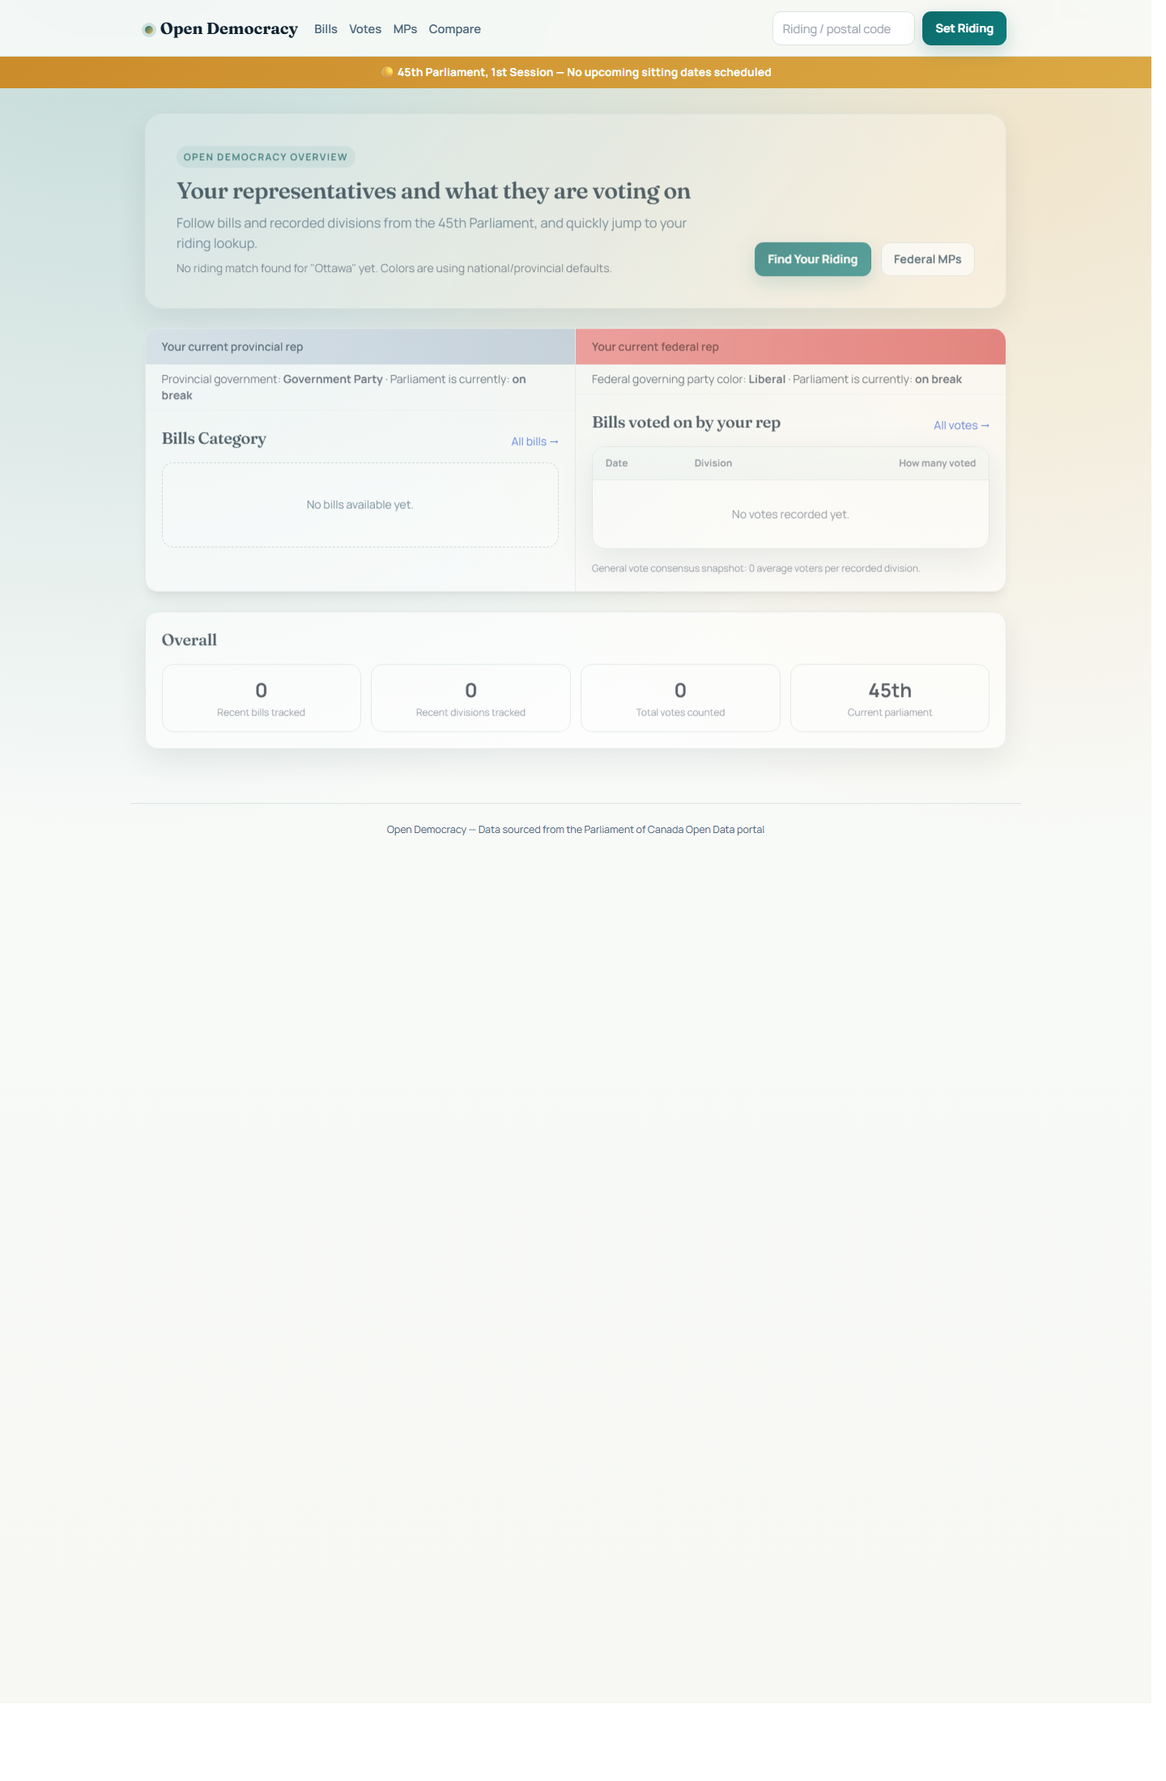
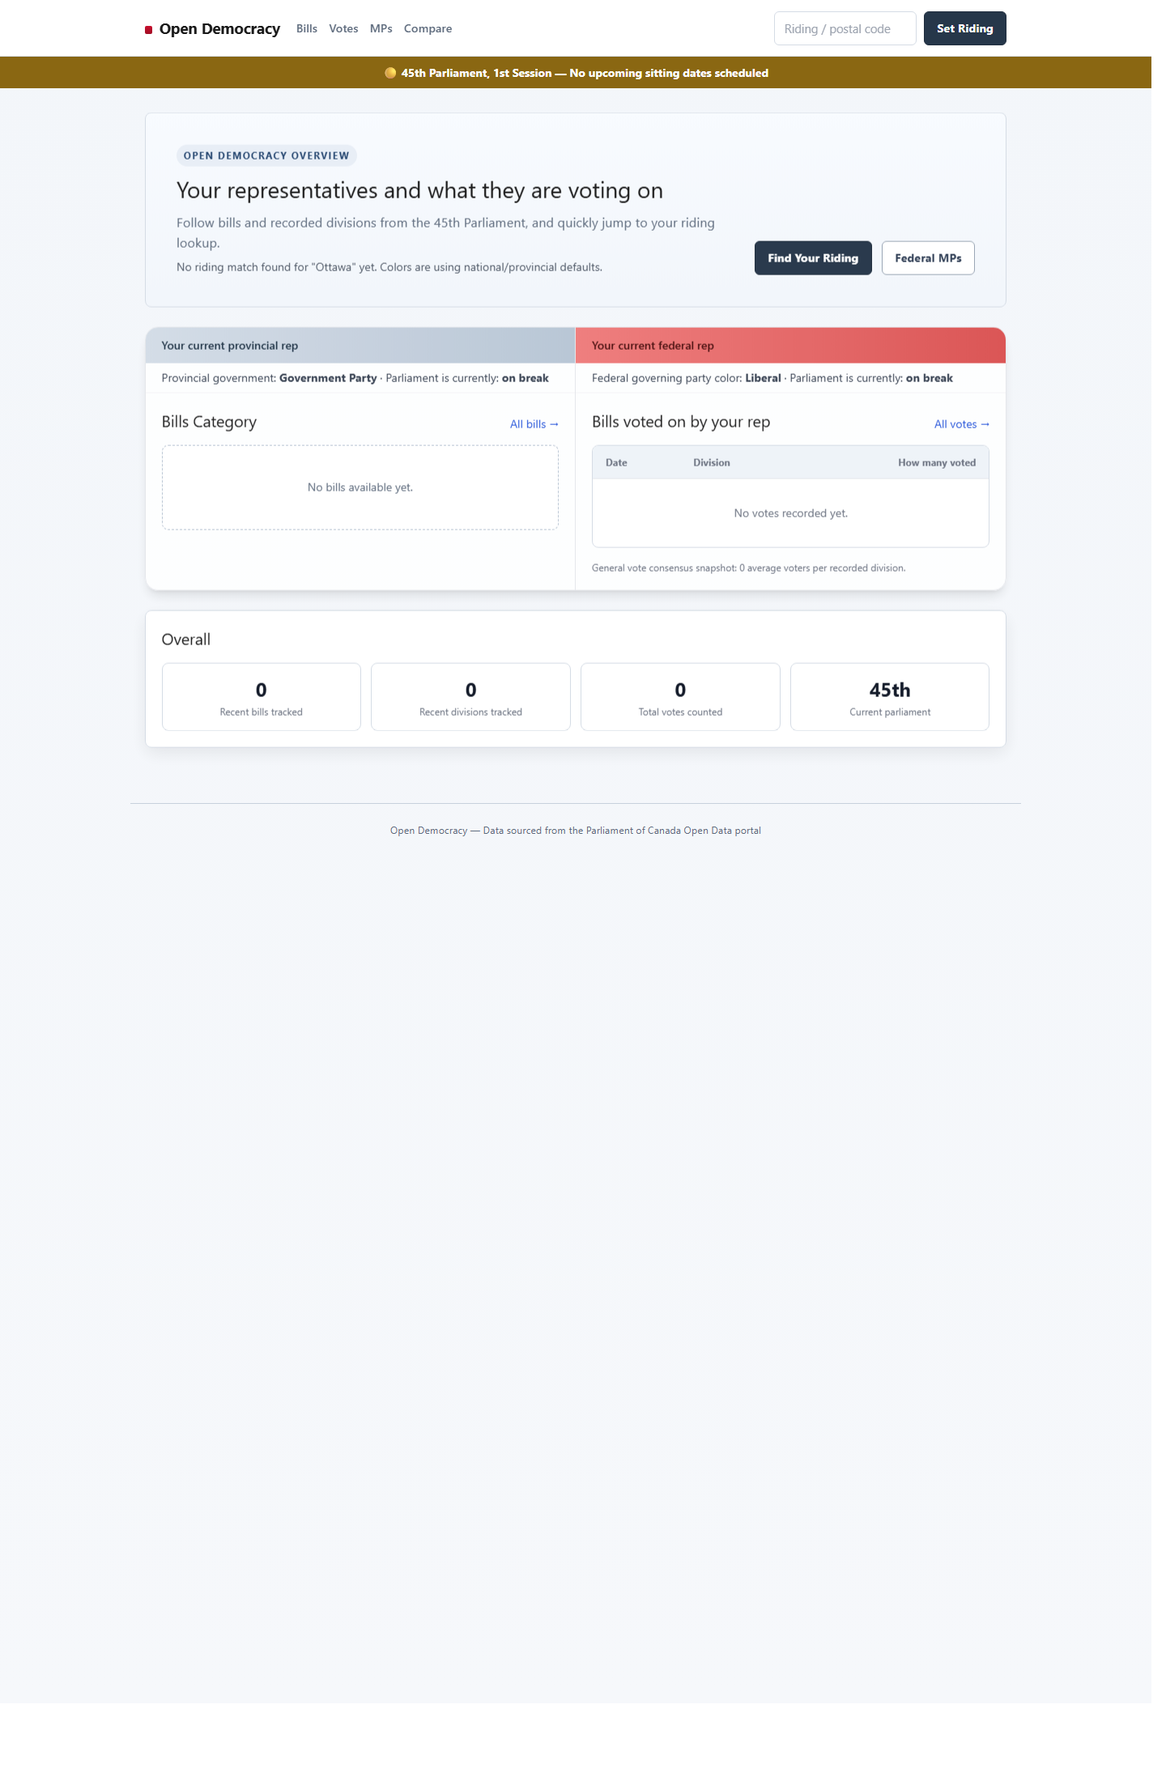
style(ui): adopt Aurora-inspired government visual system

diff --git a/internal/templates/layout_templ.go b/internal/templates/layout_templ.go
@@ -44,7 +44,7 @@ func Layout(title string, ps store.ParliamentStatus) templ.Component {
 		if templ_7745c5c3_Err != nil {
 			return templ_7745c5c3_Err
 		}
-		templ_7745c5c3_Err = templruntime.WriteString(templ_7745c5c3_Buffer, 2, " — Open Democracy</title><link rel=\"preconnect\" href=\"https://fonts.googleapis.com\"><link rel=\"preconnect\" href=\"https://fonts.gstatic.com\" crossorigin=\"\"><link href=\"https://fonts.googleapis.com/css2?family=Fraunces:opsz,wght@9..144,600;9..144,700&family=Manrope:wght@400;500;600;700&display=swap\" rel=\"stylesheet\"><script src=\"https://cdn.tailwindcss.com\"></script><style>\n\t\t\t\t:root {\n\t\t\t\t\t--ink-900: #0f2230;\n\t\t\t\t\t--ink-700: #1f3b52;\n\t\t\t\t\t--ink-500: #456277;\n\t\t\t\t\t--paper: #f8faf8;\n\t\t\t\t\t--paper-strong: #ffffff;\n\t\t\t\t\t--line: #dbe4e1;\n\t\t\t\t\t--accent: #0d6a6a;\n\t\t\t\t\t--accent-strong: #095555;\n\t\t\t\t\t--warm: #f4b860;\n\t\t\t\t\t--shadow: 0 14px 40px rgba(15, 34, 48, 0.12);\n\t\t\t\t}\n\n\t\t\t\thtml,\n\t\t\t\tbody {\n\t\t\t\t\tmin-height: 100%;\n\t\t\t\t}\n\n\t\t\t\tbody {\n\t\t\t\t\tfont-family: \"Manrope\", \"Segoe UI\", sans-serif;\n\t\t\t\t\tcolor: var(--ink-900);\n\t\t\t\t\tbackground:\n\t\t\t\t\t\tradial-gradient(circle at 10% -5%, rgba(13, 106, 106, 0.2), transparent 45%),\n\t\t\t\t\t\tradial-gradient(circle at 90% 8%, rgba(244, 184, 96, 0.26), transparent 38%),\n\t\t\t\t\t\tlinear-gradient(180deg, #eef4f1 0%, var(--paper) 46%, #f7f8f4 100%);\n\t\t\t\t}\n\n\t\t\t\th1,\n\t\t\t\th2,\n\t\t\t\th3,\n\t\t\t\th4 {\n\t\t\t\t\tfont-family: \"Fraunces\", Georgia, serif;\n\t\t\t\t\tletter-spacing: -0.02em;\n\t\t\t\t}\n\n\t\t\t\ta {\n\t\t\t\t\tcolor: var(--ink-700);\n\t\t\t\t\ttransition: color 160ms ease;\n\t\t\t\t}\n\n\t\t\t\ta:hover {\n\t\t\t\t\tcolor: var(--accent-strong);\n\t\t\t\t}\n\n\t\t\t\t.site-nav {\n\t\t\t\t\tposition: sticky;\n\t\t\t\t\ttop: 0;\n\t\t\t\t\tz-index: 20;\n\t\t\t\t\tbackdrop-filter: blur(10px);\n\t\t\t\t\tbackground: rgba(248, 250, 248, 0.88);\n\t\t\t\t\tborder-bottom: 1px solid rgba(219, 228, 225, 0.92);\n\t\t\t\t}\n\n\t\t\t\t.nav-inner {\n\t\t\t\t\tmax-width: 1100px;\n\t\t\t\t\tdisplay: flex;\n\t\t\t\t\tjustify-content: space-between;\n\t\t\t\t\talign-items: center;\n\t\t\t\t\tgap: 1rem;\n\t\t\t\t\theight: auto;\n\t\t\t\t\tpadding: 0.85rem 1.1rem;\n\t\t\t\t\tmargin: 0 auto;\n\t\t\t\t\tflex-wrap: wrap;\n\t\t\t\t}\n\n\t\t\t\t.nav-brand {\n\t\t\t\t\tfont-family: \"Fraunces\", Georgia, serif;\n\t\t\t\t\tfont-size: 1.25rem;\n\t\t\t\t\tfont-weight: 700;\n\t\t\t\t\tcolor: var(--ink-900);\n\t\t\t\t}\n\n\t\t\t\t.nav-brand::before {\n\t\t\t\t\tcontent: \"\";\n\t\t\t\t\tdisplay: inline-block;\n\t\t\t\t\twidth: 0.65rem;\n\t\t\t\t\theight: 0.65rem;\n\t\t\t\t\tmargin-right: 0.55rem;\n\t\t\t\t\tborder-radius: 50%;\n\t\t\t\t\tbackground: linear-gradient(135deg, var(--accent), var(--warm));\n\t\t\t\t\tbox-shadow: 0 0 0 4px rgba(13, 106, 106, 0.16);\n\t\t\t\t\tvertical-align: middle;\n\t\t\t\t}\n\n\t\t\t\t.nav-links {\n\t\t\t\t\tdisplay: flex;\n\t\t\t\t\tgap: 0.9rem;\n\t\t\t\t\talign-items: center;\n\t\t\t\t\tfont-size: 0.92rem;\n\t\t\t\t\tfont-weight: 600;\n\t\t\t\t\tcolor: var(--ink-500);\n\t\t\t\t\tflex-wrap: wrap;\n\t\t\t\t}\n\n\t\t\t\t.search-form {\n\t\t\t\t\tdisplay: flex;\n\t\t\t\t\talign-items: center;\n\t\t\t\t\tgap: 0.55rem;\n\t\t\t\t\tflex-wrap: wrap;\n\t\t\t\t}\n\n\t\t\t\t.input-field,\n\t\t\t\tselect,\n\t\t\t\tinput[type=\"text\"] {\n\t\t\t\t\tborder: 1px solid var(--line);\n\t\t\t\t\tborder-radius: 10px;\n\t\t\t\t\tpadding: 0.56rem 0.72rem;\n\t\t\t\t\tbackground: var(--paper-strong);\n\t\t\t\t\tfont-size: 0.92rem;\n\t\t\t\t\tcolor: var(--ink-900);\n\t\t\t\t\toutline: none;\n\t\t\t\t\ttransition: border-color 160ms ease, box-shadow 160ms ease;\n\t\t\t\t}\n\n\t\t\t\t.input-field:focus,\n\t\t\t\tselect:focus,\n\t\t\t\tinput[type=\"text\"]:focus {\n\t\t\t\t\tborder-color: var(--accent);\n\t\t\t\t\tbox-shadow: 0 0 0 3px rgba(13, 106, 106, 0.15);\n\t\t\t\t}\n\n\t\t\t\t.btn {\n\t\t\t\t\tdisplay: inline-flex;\n\t\t\t\t\talign-items: center;\n\t\t\t\t\tjustify-content: center;\n\t\t\t\t\tgap: 0.4rem;\n\t\t\t\t\tpadding: 0.58rem 0.96rem;\n\t\t\t\t\tfont-size: 0.9rem;\n\t\t\t\t\tfont-weight: 700;\n\t\t\t\t\tborder-radius: 11px;\n\t\t\t\t\tborder: 1px solid transparent;\n\t\t\t\t\ttransition: transform 120ms ease, box-shadow 160ms ease, background-color 160ms ease;\n\t\t\t\t\tcursor: pointer;\n\t\t\t\t}\n\n\t\t\t\t.btn:hover {\n\t\t\t\t\ttransform: translateY(-1px);\n\t\t\t\t}\n\n\t\t\t\t.btn-primary {\n\t\t\t\t\tbackground: linear-gradient(135deg, var(--accent), #0f7d7d);\n\t\t\t\t\tcolor: #fff;\n\t\t\t\t\tbox-shadow: 0 8px 22px rgba(13, 106, 106, 0.22);\n\t\t\t\t}\n\n\t\t\t\t.btn-primary:hover {\n\t\t\t\t\tbackground: linear-gradient(135deg, #0f7d7d, var(--accent-strong));\n\t\t\t\t\tcolor: #fff;\n\t\t\t\t}\n\n\t\t\t\t.btn-secondary {\n\t\t\t\t\tbackground: #ffffff;\n\t\t\t\t\tborder-color: var(--line);\n\t\t\t\t\tcolor: var(--ink-700);\n\t\t\t\t}\n\n\t\t\t\t.session-banner {\n\t\t\t\t\ttext-align: center;\n\t\t\t\t\tpadding: 0.55rem 1rem;\n\t\t\t\t\tfont-size: 0.86rem;\n\t\t\t\t\tfont-weight: 700;\n\t\t\t\t\tletter-spacing: 0.01em;\n\t\t\t\t\tcolor: #fff;\n\t\t\t\t}\n\n\t\t\t\t.session-banner.in-session {\n\t\t\t\t\tbackground: linear-gradient(135deg, #0f8a5f, #13916b);\n\t\t\t\t}\n\n\t\t\t\t.session-banner.on-break {\n\t\t\t\t\tbackground: linear-gradient(135deg, #cb8c2a, #dba944);\n\t\t\t\t}\n\n\t\t\t\t.site-main {\n\t\t\t\t\tmax-width: 1100px;\n\t\t\t\t\tmargin: 1.8rem auto 0;\n\t\t\t\t\tpadding: 0 1.1rem 2.2rem;\n\t\t\t\t}\n\n\t\t\t\t.site-main > * {\n\t\t\t\t\tanimation: rise-in 420ms ease both;\n\t\t\t\t}\n\n\t\t\t\t.surface-card,\n\t\t\t\t.bg-white.rounded-lg.border {\n\t\t\t\t\tbackground: rgba(255, 255, 255, 0.9);\n\t\t\t\t\tborder: 1px solid var(--line);\n\t\t\t\t\tborder-radius: 16px;\n\t\t\t\t\tbox-shadow: var(--shadow);\n\t\t\t\t}\n\n\t\t\t\t.table-shell,\n\t\t\t\t.overflow-x-auto.bg-white.rounded-lg.border {\n\t\t\t\t\tborder-radius: 16px;\n\t\t\t\t\tborder: 1px solid var(--line);\n\t\t\t\t\tbox-shadow: var(--shadow);\n\t\t\t\t\tbackground: rgba(255, 255, 255, 0.92);\n\t\t\t\t}\n\n\t\t\t\ttable thead tr {\n\t\t\t\t\tbackground: linear-gradient(180deg, #f6faf9, #f2f6f5);\n\t\t\t\t}\n\n\t\t\t\ttable tbody tr {\n\t\t\t\t\ttransition: background-color 120ms ease;\n\t\t\t\t}\n\n\t\t\t\ttable tbody tr:hover {\n\t\t\t\t\tbackground: #f4fbf9;\n\t\t\t\t}\n\n\t\t\t\t.page-title {\n\t\t\t\t\tfont-size: clamp(1.7rem, 2vw, 2.2rem);\n\t\t\t\t\tline-height: 1.1;\n\t\t\t\t\tcolor: var(--ink-900);\n\t\t\t\t}\n\n\t\t\t\t.kicker {\n\t\t\t\t\tdisplay: inline-block;\n\t\t\t\t\tfont-size: 0.74rem;\n\t\t\t\t\tletter-spacing: 0.12em;\n\t\t\t\t\tfont-weight: 700;\n\t\t\t\t\ttext-transform: uppercase;\n\t\t\t\t\tcolor: var(--accent-strong);\n\t\t\t\t\tbackground: rgba(13, 106, 106, 0.1);\n\t\t\t\t\tpadding: 0.3rem 0.55rem;\n\t\t\t\t\tborder-radius: 999px;\n\t\t\t\t}\n\n\t\t\t\t.hero-panel {\n\t\t\t\t\tborder: 1px solid var(--line);\n\t\t\t\t\tborder-radius: 22px;\n\t\t\t\t\tpadding: clamp(1.4rem, 3vw, 2.4rem);\n\t\t\t\t\tbackground:\n\t\t\t\t\t\tlinear-gradient(130deg, rgba(13, 106, 106, 0.13), rgba(244, 184, 96, 0.16)),\n\t\t\t\t\t\trgba(255, 255, 255, 0.88);\n\t\t\t\t\tbox-shadow: var(--shadow);\n\t\t\t\t}\n\n\t\t\t\t.title-row {\n\t\t\t\t\tdisplay: flex;\n\t\t\t\t\tjustify-content: space-between;\n\t\t\t\t\talign-items: end;\n\t\t\t\t\tgap: 1rem;\n\t\t\t\t\tflex-wrap: wrap;\n\t\t\t\t}\n\n\t\t\t\t.filter-shell {\n\t\t\t\t\tdisplay: flex;\n\t\t\t\t\tflex-wrap: wrap;\n\t\t\t\t\tgap: 0.65rem;\n\t\t\t\t\talign-items: center;\n\t\t\t\t\tpadding: 0.95rem;\n\t\t\t\t\tborder-radius: 14px;\n\t\t\t\t\tborder: 1px solid var(--line);\n\t\t\t\t\tbackground: rgba(255, 255, 255, 0.85);\n\t\t\t\t}\n\n\t\t\t\t.metric-grid {\n\t\t\t\t\tdisplay: grid;\n\t\t\t\t\tgrid-template-columns: repeat(auto-fit, minmax(150px, 1fr));\n\t\t\t\t\tgap: 0.8rem;\n\t\t\t\t}\n\n\t\t\t\t.metric-card {\n\t\t\t\t\tpadding: 0.95rem;\n\t\t\t\t\tborder-radius: 14px;\n\t\t\t\t\tborder: 1px solid var(--line);\n\t\t\t\t\tbackground: rgba(255, 255, 255, 0.88);\n\t\t\t\t\ttext-align: center;\n\t\t\t\t}\n\n\t\t\t\t.empty-state {\n\t\t\t\t\ttext-align: center;\n\t\t\t\t\tpadding: 2.6rem 1rem;\n\t\t\t\t\tborder: 1px dashed #bfd0cc;\n\t\t\t\t\tborder-radius: 14px;\n\t\t\t\t\tcolor: var(--ink-500);\n\t\t\t\t\tbackground: rgba(255, 255, 255, 0.6);\n\t\t\t\t}\n\n\t\t\t\t.section-lead {\n\t\t\t\t\tfont-size: 1.02rem;\n\t\t\t\t\tline-height: 1.55;\n\t\t\t\t\tcolor: var(--ink-500);\n\t\t\t\t}\n\n\t\t\t\t.footer-shell {\n\t\t\t\t\tmax-width: 1100px;\n\t\t\t\t\tmargin: 2.2rem auto 0;\n\t\t\t\t\tpadding: 1.4rem 1.1rem 2.4rem;\n\t\t\t\t\tborder-top: 1px solid var(--line);\n\t\t\t\t\tfont-size: 0.78rem;\n\t\t\t\t\tcolor: var(--ink-500);\n\t\t\t\t\ttext-align: center;\n\t\t\t\t}\n\n\t\t\t\t@keyframes rise-in {\n\t\t\t\t\tfrom {\n\t\t\t\t\t\topacity: 0;\n\t\t\t\t\t\ttransform: translateY(10px);\n\t\t\t\t\t}\n\t\t\t\t\tto {\n\t\t\t\t\t\topacity: 1;\n\t\t\t\t\t\ttransform: translateY(0);\n\t\t\t\t\t}\n\t\t\t\t}\n\n\t\t\t\t@media (max-width: 760px) {\n\t\t\t\t\t.hero-panel {\n\t\t\t\t\t\tpadding: 1.2rem;\n\t\t\t\t\t}\n\n\t\t\t\t\t.search-form {\n\t\t\t\t\t\twidth: 100%;\n\t\t\t\t\t}\n\n\t\t\t\t\t.search-form input[type=\"text\"] {\n\t\t\t\t\t\tflex: 1;\n\t\t\t\t\t\tmin-width: 180px;\n\t\t\t\t\t}\n\n\t\t\t\t\t.nav-links {\n\t\t\t\t\t\tfont-size: 0.87rem;\n\t\t\t\t\t\tgap: 0.7rem;\n\t\t\t\t\t}\n\t\t\t\t}\n\t\t\t</style></head><body class=\"min-h-screen\"><!-- Nav --><nav class=\"site-nav\"><div class=\"nav-inner\"><div class=\"flex items-center gap-5\"><a href=\"/\" class=\"nav-brand\">Open Democracy</a><div class=\"nav-links\"><a href=\"/bills\">Bills</a> <a href=\"/votes\">Votes</a> <a href=\"/members\">MPs</a> <a href=\"/compare\">Compare</a></div></div><form method=\"GET\" action=\"/\" class=\"search-form\"><input type=\"text\" name=\"postal\" placeholder=\"Riding / postal code\" class=\"input-field w-44\"> <button type=\"submit\" class=\"btn btn-primary\">Set Riding</button></form></div></nav><!-- Session banner -->")
+		templ_7745c5c3_Err = templruntime.WriteString(templ_7745c5c3_Buffer, 2, " — Open Democracy</title><link rel=\"preconnect\" href=\"https://fonts.googleapis.com\"><link rel=\"preconnect\" href=\"https://fonts.gstatic.com\" crossorigin=\"\"><link href=\"https://fonts.googleapis.com/css2?family=Fraunces:opsz,wght@9..144,600;9..144,700&family=Manrope:wght@400;500;600;700&display=swap\" rel=\"stylesheet\"><script src=\"https://cdn.tailwindcss.com\"></script><style>\n\t\t\t\t:root {\n\t\t\t\t\t--ink-900: #1a1a1a;\n\t\t\t\t\t--ink-700: #2f3e55;\n\t\t\t\t\t--ink-500: #5e6b7d;\n\t\t\t\t\t--paper: #f6f8fb;\n\t\t\t\t\t--paper-strong: #ffffff;\n\t\t\t\t\t--line: #d5dce5;\n\t\t\t\t\t--accent: #26374a;\n\t\t\t\t\t--accent-strong: #1a2634;\n\t\t\t\t\t--signal: #c8102e;\n\t\t\t\t\t--focus: #0f62fe;\n\t\t\t\t\t--shadow: 0 8px 22px rgba(16, 24, 40, 0.08);\n\t\t\t\t}\n\n\t\t\t\thtml,\n\t\t\t\tbody {\n\t\t\t\t\tmin-height: 100%;\n\t\t\t\t}\n\n\t\t\t\tbody {\n\t\t\t\t\tfont-family: \"Noto Sans\", \"Segoe UI\", sans-serif;\n\t\t\t\t\tcolor: var(--ink-900);\n\t\t\t\t\tbackground: linear-gradient(180deg, #f3f6fa 0%, var(--paper) 100%);\n\t\t\t\t}\n\n\t\t\t\th1,\n\t\t\t\th2,\n\t\t\t\th3,\n\t\t\t\th4 {\n\t\t\t\t\tfont-family: \"Noto Sans\", \"Segoe UI\", sans-serif;\n\t\t\t\t\tletter-spacing: -0.01em;\n\t\t\t\t\tfont-weight: 700;\n\t\t\t\t}\n\n\t\t\t\ta {\n\t\t\t\t\tcolor: var(--ink-700);\n\t\t\t\t\ttransition: color 160ms ease;\n\t\t\t\t}\n\n\t\t\t\ta:hover {\n\t\t\t\t\tcolor: #1f4a78;\n\t\t\t\t}\n\n\t\t\t\t.site-nav {\n\t\t\t\t\tposition: sticky;\n\t\t\t\t\ttop: 0;\n\t\t\t\t\tz-index: 20;\n\t\t\t\t\tbackground: rgba(255, 255, 255, 0.97);\n\t\t\t\t\tborder-bottom: 1px solid var(--line);\n\t\t\t\t\tbox-shadow: 0 1px 0 rgba(16, 24, 40, 0.04);\n\t\t\t\t}\n\n\t\t\t\t.nav-inner {\n\t\t\t\t\tmax-width: 1100px;\n\t\t\t\t\tdisplay: flex;\n\t\t\t\t\tjustify-content: space-between;\n\t\t\t\t\talign-items: center;\n\t\t\t\t\tgap: 1rem;\n\t\t\t\t\theight: auto;\n\t\t\t\t\tpadding: 0.85rem 1.1rem;\n\t\t\t\t\tmargin: 0 auto;\n\t\t\t\t\tflex-wrap: wrap;\n\t\t\t\t}\n\n\t\t\t\t.nav-brand {\n\t\t\t\t\tfont-family: \"Noto Sans\", \"Segoe UI\", sans-serif;\n\t\t\t\t\tfont-size: 1.16rem;\n\t\t\t\t\tfont-weight: 700;\n\t\t\t\t\tcolor: var(--ink-900);\n\t\t\t\t}\n\n\t\t\t\t.nav-brand::before {\n\t\t\t\t\tcontent: \"\";\n\t\t\t\t\tdisplay: inline-block;\n\t\t\t\t\twidth: 0.58rem;\n\t\t\t\t\theight: 0.58rem;\n\t\t\t\t\tmargin-right: 0.55rem;\n\t\t\t\t\tborder-radius: 2px;\n\t\t\t\t\tbackground: linear-gradient(180deg, var(--signal), #a10d24);\n\t\t\t\t\tvertical-align: middle;\n\t\t\t\t}\n\n\t\t\t\t.nav-links {\n\t\t\t\t\tdisplay: flex;\n\t\t\t\t\tgap: 0.9rem;\n\t\t\t\t\talign-items: center;\n\t\t\t\t\tfont-size: 0.9rem;\n\t\t\t\t\tfont-weight: 600;\n\t\t\t\t\tcolor: var(--ink-500);\n\t\t\t\t\tflex-wrap: wrap;\n\t\t\t\t}\n\n\t\t\t\t.search-form {\n\t\t\t\t\tdisplay: flex;\n\t\t\t\t\talign-items: center;\n\t\t\t\t\tgap: 0.55rem;\n\t\t\t\t\tflex-wrap: wrap;\n\t\t\t\t}\n\n\t\t\t\t.input-field,\n\t\t\t\tselect,\n\t\t\t\tinput[type=\"text\"] {\n\t\t\t\t\tborder: 1px solid var(--line);\n\t\t\t\t\tborder-radius: 6px;\n\t\t\t\t\tpadding: 0.56rem 0.72rem;\n\t\t\t\t\tbackground: var(--paper-strong);\n\t\t\t\t\tfont-size: 0.92rem;\n\t\t\t\t\tcolor: var(--ink-900);\n\t\t\t\t\toutline: none;\n\t\t\t\t\ttransition: border-color 160ms ease, box-shadow 160ms ease;\n\t\t\t\t}\n\n\t\t\t\t.input-field:focus,\n\t\t\t\tselect:focus,\n\t\t\t\tinput[type=\"text\"]:focus {\n\t\t\t\t\tborder-color: var(--focus);\n\t\t\t\t\tbox-shadow: 0 0 0 3px rgba(15, 98, 254, 0.18);\n\t\t\t\t}\n\n\t\t\t\t.btn {\n\t\t\t\t\tdisplay: inline-flex;\n\t\t\t\t\talign-items: center;\n\t\t\t\t\tjustify-content: center;\n\t\t\t\t\tgap: 0.4rem;\n\t\t\t\t\tpadding: 0.58rem 0.96rem;\n\t\t\t\t\tfont-size: 0.9rem;\n\t\t\t\t\tfont-weight: 700;\n\t\t\t\t\tborder-radius: 6px;\n\t\t\t\t\tborder: 1px solid transparent;\n\t\t\t\t\ttransition: box-shadow 160ms ease, background-color 160ms ease, border-color 160ms ease;\n\t\t\t\t\tcursor: pointer;\n\t\t\t\t}\n\n\t\t\t\t.btn:hover {\n\t\t\t\t\ttransform: none;\n\t\t\t\t}\n\n\t\t\t\t.btn-primary {\n\t\t\t\t\tbackground: var(--accent);\n\t\t\t\t\tcolor: #fff;\n\t\t\t\t\tborder-color: #1f2d3e;\n\t\t\t\t}\n\n\t\t\t\t.btn-primary:hover {\n\t\t\t\t\tbackground: var(--accent-strong);\n\t\t\t\t\tcolor: #fff;\n\t\t\t\t}\n\n\t\t\t\t.btn-secondary {\n\t\t\t\t\tbackground: #ffffff;\n\t\t\t\t\tborder-color: #9aa6b5;\n\t\t\t\t\tcolor: var(--ink-700);\n\t\t\t\t}\n\n\t\t\t\t.session-banner {\n\t\t\t\t\ttext-align: center;\n\t\t\t\t\tpadding: 0.55rem 1rem;\n\t\t\t\t\tfont-size: 0.86rem;\n\t\t\t\t\tfont-weight: 700;\n\t\t\t\t\tletter-spacing: 0.01em;\n\t\t\t\t\tcolor: #fff;\n\t\t\t\t}\n\n\t\t\t\t.session-banner.in-session {\n\t\t\t\t\tbackground: #1e7f4f;\n\t\t\t\t}\n\n\t\t\t\t.session-banner.on-break {\n\t\t\t\t\tbackground: #8a6712;\n\t\t\t\t}\n\n\t\t\t\t.site-main {\n\t\t\t\t\tmax-width: 1100px;\n\t\t\t\t\tmargin: 1.8rem auto 0;\n\t\t\t\t\tpadding: 0 1.1rem 2.2rem;\n\t\t\t\t}\n\n\t\t\t\t.site-main > * {\n\t\t\t\t\tanimation: rise-in 420ms ease both;\n\t\t\t\t}\n\n\t\t\t\t.surface-card,\n\t\t\t\t.bg-white.rounded-lg.border {\n\t\t\t\t\tbackground: rgba(255, 255, 255, 0.98);\n\t\t\t\t\tborder: 1px solid var(--line);\n\t\t\t\t\tborder-radius: 8px;\n\t\t\t\t\tbox-shadow: var(--shadow);\n\t\t\t\t}\n\n\t\t\t\t.table-shell,\n\t\t\t\t.overflow-x-auto.bg-white.rounded-lg.border {\n\t\t\t\t\tborder-radius: 8px;\n\t\t\t\t\tborder: 1px solid var(--line);\n\t\t\t\t\tbox-shadow: none;\n\t\t\t\t\tbackground: rgba(255, 255, 255, 0.98);\n\t\t\t\t}\n\n\t\t\t\ttable thead tr {\n\t\t\t\t\tbackground: #eef3f8;\n\t\t\t\t}\n\n\t\t\t\ttable tbody tr {\n\t\t\t\t\ttransition: background-color 120ms ease;\n\t\t\t\t}\n\n\t\t\t\ttable tbody tr:hover {\n\t\t\t\t\tbackground: #f8fbff;\n\t\t\t\t}\n\n\t\t\t\t.page-title {\n\t\t\t\t\tfont-size: clamp(1.7rem, 2vw, 2.2rem);\n\t\t\t\t\tline-height: 1.1;\n\t\t\t\t\tcolor: var(--ink-900);\n\t\t\t\t}\n\n\t\t\t\t.kicker {\n\t\t\t\t\tdisplay: inline-block;\n\t\t\t\t\tfont-size: 0.74rem;\n\t\t\t\t\tletter-spacing: 0.12em;\n\t\t\t\t\tfont-weight: 700;\n\t\t\t\t\ttext-transform: uppercase;\n\t\t\t\t\tcolor: #23456f;\n\t\t\t\t\tbackground: #e8eef6;\n\t\t\t\t\tpadding: 0.3rem 0.55rem;\n\t\t\t\t\tborder-radius: 999px;\n\t\t\t\t}\n\n\t\t\t\t.hero-panel {\n\t\t\t\t\tborder: 1px solid var(--line);\n\t\t\t\t\tborder-radius: 8px;\n\t\t\t\t\tpadding: clamp(1.4rem, 3vw, 2.4rem);\n\t\t\t\t\tbackground: linear-gradient(180deg, #f8fbff, #f2f6fb);\n\t\t\t\t\tbox-shadow: none;\n\t\t\t\t}\n\n\t\t\t\t.title-row {\n\t\t\t\t\tdisplay: flex;\n\t\t\t\t\tjustify-content: space-between;\n\t\t\t\t\talign-items: end;\n\t\t\t\t\tgap: 1rem;\n\t\t\t\t\tflex-wrap: wrap;\n\t\t\t\t}\n\n\t\t\t\t.filter-shell {\n\t\t\t\t\tdisplay: flex;\n\t\t\t\t\tflex-wrap: wrap;\n\t\t\t\t\tgap: 0.65rem;\n\t\t\t\t\talign-items: center;\n\t\t\t\t\tpadding: 0.95rem;\n\t\t\t\t\tborder-radius: 8px;\n\t\t\t\t\tborder: 1px solid var(--line);\n\t\t\t\t\tbackground: rgba(255, 255, 255, 0.98);\n\t\t\t\t}\n\n\t\t\t\t.metric-grid {\n\t\t\t\t\tdisplay: grid;\n\t\t\t\t\tgrid-template-columns: repeat(auto-fit, minmax(150px, 1fr));\n\t\t\t\t\tgap: 0.8rem;\n\t\t\t\t}\n\n\t\t\t\t.metric-card {\n\t\t\t\t\tpadding: 0.95rem;\n\t\t\t\t\tborder-radius: 8px;\n\t\t\t\t\tborder: 1px solid var(--line);\n\t\t\t\t\tbackground: rgba(255, 255, 255, 0.98);\n\t\t\t\t\ttext-align: center;\n\t\t\t\t}\n\n\t\t\t\t.empty-state {\n\t\t\t\t\ttext-align: center;\n\t\t\t\t\tpadding: 2.6rem 1rem;\n\t\t\t\t\tborder: 1px dashed #b6c3d2;\n\t\t\t\t\tborder-radius: 8px;\n\t\t\t\t\tcolor: var(--ink-500);\n\t\t\t\t\tbackground: rgba(255, 255, 255, 0.92);\n\t\t\t\t}\n\n\t\t\t\t.section-lead {\n\t\t\t\t\tfont-size: 1.02rem;\n\t\t\t\t\tline-height: 1.55;\n\t\t\t\t\tcolor: var(--ink-500);\n\t\t\t\t}\n\n\t\t\t\t.footer-shell {\n\t\t\t\t\tmax-width: 1100px;\n\t\t\t\t\tmargin: 2.2rem auto 0;\n\t\t\t\t\tpadding: 1.4rem 1.1rem 2.4rem;\n\t\t\t\t\tborder-top: 1px solid #c7d1dc;\n\t\t\t\t\tfont-size: 0.78rem;\n\t\t\t\t\tcolor: var(--ink-500);\n\t\t\t\t\ttext-align: center;\n\t\t\t\t}\n\n\t\t\t\t@keyframes rise-in {\n\t\t\t\t\tfrom {\n\t\t\t\t\t\topacity: 0.98;\n\t\t\t\t\t\ttransform: translateY(2px);\n\t\t\t\t\t}\n\t\t\t\t\tto {\n\t\t\t\t\t\topacity: 1;\n\t\t\t\t\t\ttransform: translateY(0);\n\t\t\t\t\t}\n\t\t\t\t}\n\n\t\t\t\t@media (max-width: 760px) {\n\t\t\t\t\t.hero-panel {\n\t\t\t\t\t\tpadding: 1.2rem;\n\t\t\t\t\t}\n\n\t\t\t\t\t.search-form {\n\t\t\t\t\t\twidth: 100%;\n\t\t\t\t\t}\n\n\t\t\t\t\t.search-form input[type=\"text\"] {\n\t\t\t\t\t\tflex: 1;\n\t\t\t\t\t\tmin-width: 180px;\n\t\t\t\t\t}\n\n\t\t\t\t\t.nav-links {\n\t\t\t\t\t\tfont-size: 0.87rem;\n\t\t\t\t\t\tgap: 0.7rem;\n\t\t\t\t\t}\n\t\t\t\t}\n\t\t\t</style></head><body class=\"min-h-screen\"><!-- Nav --><nav class=\"site-nav\"><div class=\"nav-inner\"><div class=\"flex items-center gap-5\"><a href=\"/\" class=\"nav-brand\">Open Democracy</a><div class=\"nav-links\"><a href=\"/bills\">Bills</a> <a href=\"/votes\">Votes</a> <a href=\"/members\">MPs</a> <a href=\"/compare\">Compare</a></div></div><form method=\"GET\" action=\"/\" class=\"search-form\"><input type=\"text\" name=\"postal\" placeholder=\"Riding / postal code\" class=\"input-field w-44\"> <button type=\"submit\" class=\"btn btn-primary\">Set Riding</button></form></div></nav><!-- Session banner -->")
 		if templ_7745c5c3_Err != nil {
 			return templ_7745c5c3_Err
 		}
@@ -56,7 +56,7 @@ func Layout(title string, ps store.ParliamentStatus) templ.Component {
 			var templ_7745c5c3_Var3 string
 			templ_7745c5c3_Var3, templ_7745c5c3_Err = templ.JoinStringErrs(ps.Label)
 			if templ_7745c5c3_Err != nil {
-				return templ.Error{Err: templ_7745c5c3_Err, FileName: `internal/templates/layout.templ`, Line: 369, Col: 20}
+				return templ.Error{Err: templ_7745c5c3_Err, FileName: `internal/templates/layout.templ`, Line: 365, Col: 20}
 			}
 			_, templ_7745c5c3_Err = templ_7745c5c3_Buffer.WriteString(templ.EscapeString(templ_7745c5c3_Var3))
 			if templ_7745c5c3_Err != nil {
@@ -69,7 +69,7 @@ func Layout(title string, ps store.ParliamentStatus) templ.Component {
 			var templ_7745c5c3_Var4 string
 			templ_7745c5c3_Var4, templ_7745c5c3_Err = templ.JoinStringErrs(ps.Detail)
 			if templ_7745c5c3_Err != nil {
-				return templ.Error{Err: templ_7745c5c3_Err, FileName: `internal/templates/layout.templ`, Line: 369, Col: 38}
+				return templ.Error{Err: templ_7745c5c3_Err, FileName: `internal/templates/layout.templ`, Line: 365, Col: 38}
 			}
 			_, templ_7745c5c3_Err = templ_7745c5c3_Buffer.WriteString(templ.EscapeString(templ_7745c5c3_Var4))
 			if templ_7745c5c3_Err != nil {
@@ -87,7 +87,7 @@ func Layout(title string, ps store.ParliamentStatus) templ.Component {
 			var templ_7745c5c3_Var5 string
 			templ_7745c5c3_Var5, templ_7745c5c3_Err = templ.JoinStringErrs(ps.Label)
 			if templ_7745c5c3_Err != nil {
-				return templ.Error{Err: templ_7745c5c3_Err, FileName: `internal/templates/layout.templ`, Line: 373, Col: 20}
+				return templ.Error{Err: templ_7745c5c3_Err, FileName: `internal/templates/layout.templ`, Line: 369, Col: 20}
 			}
 			_, templ_7745c5c3_Err = templ_7745c5c3_Buffer.WriteString(templ.EscapeString(templ_7745c5c3_Var5))
 			if templ_7745c5c3_Err != nil {
@@ -100,7 +100,7 @@ func Layout(title string, ps store.ParliamentStatus) templ.Component {
 			var templ_7745c5c3_Var6 string
 			templ_7745c5c3_Var6, templ_7745c5c3_Err = templ.JoinStringErrs(ps.Detail)
 			if templ_7745c5c3_Err != nil {
-				return templ.Error{Err: templ_7745c5c3_Err, FileName: `internal/templates/layout.templ`, Line: 373, Col: 38}
+				return templ.Error{Err: templ_7745c5c3_Err, FileName: `internal/templates/layout.templ`, Line: 369, Col: 38}
 			}
 			_, templ_7745c5c3_Err = templ_7745c5c3_Buffer.WriteString(templ.EscapeString(templ_7745c5c3_Var6))
 			if templ_7745c5c3_Err != nil {
